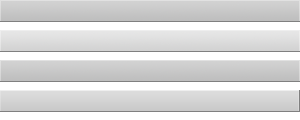
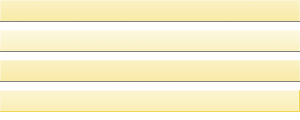
bug 10635 seeding some states for the service pane button - still needs work r=me
git-svn-id: http://publicsvn.songbirdnest.com/client/trunk@10024 5aad4ff5-4b58-4159-ba3f-0e6328df4cad

diff --git a/feathers/gonzo/chrome/skin/colors.css b/feathers/gonzo/chrome/skin/colors.css
@@ -197,19 +197,6 @@ we should nix the painting of the selection.*/
 }
 
 
-/**
- * The spring-loaded service pane panel
- */
-#service_pane_spring_load_panel {
-  background: rgba(255, 0, 255, 0.6);
-  width: 300px;
-  height: 500px;
-}
-#service_pane_spring_load_panel > .service-pane-spring-load-tree {
-  -moz-binding: url(chrome://songbird/content/bindings/servicePane.xml#proxyTreePane);
-}
-
-
 /** 
 *******************************************************************************
 THE PLAYLIST
@@ -333,13 +320,16 @@ treechildren::-moz-tree-cell-text( selected ) {
 }
 treechildren::-moz-tree-row( selected, focus, odd ) {
   background-color: rgb(186,218,255);
+  background-color: rgb(255,244,127);
+  background-color: rgb(252,231,127);
 
   
   
 }
 treechildren::-moz-tree-row( selected, focus, even ) {
   background-color: rgb(181,213,255);
-
+  background-color: rgb(250,239,122);
+  background-color: rgb(247,226,122);
 }
 
 
@@ -614,6 +604,10 @@ tab[selected="true"],
   background-position:center 0px;
 }
 
+.tabbrowser-tab.sb-media-tab {
+  max-width:120px !important;
+}
+
 .tabbrowser-tab.sb-media-tab > .tab-image-middle,
 .tabbrowser-tab.sb-media-tab > .tab-image-left,
 .tabbrowser-tab.sb-media-tab > .tab-image-right,
@@ -625,6 +619,14 @@ tab[selected="true"],
 .tabbrowser-tab[selected="true"] > .tab-close-button {
   background-image: url(chrome://songbird/skin/browser-tab-bar/bg-selected-tab.png) !important;
 }
+.tabbrowser-tab.sb-media-tab[selected="true"] > .tab-image-middle,
+.tabbrowser-tab.sb-media-tab[selected="true"] > .tab-image-left,
+.tabbrowser-tab.sb-media-tab[selected="true"] > .tab-image-right,
+.tabbrowser-tab.sb-media-tab[selected="true"] > .tab-close-button {
+  background-image: url(chrome://songbird/skin/browser-tab-bar/bg-selected-media-tab.png) !important;
+
+}
+
 .tabbrowser-tab:hover > .tab-image-middle,
 .tabbrowser-tab:hover > .tab-close-button {
   background-position:center -30px !important;
@@ -755,14 +757,16 @@ background-position:center 0px;
 
 
 #nav-bar toolbarbutton[disabled="true"] {
-  background-image:none !important;
-  background-color:rgb(151,202,98) !important;
-  background-color:rgb(100,100,100) !important;
+  background-position:center -60px !important;
 }
 #nav-bar toolbarbutton:active > .toolbarbutton-icon,
 #nav-bar toolbarbutton:active > .toolbarbutton-menu-dropmarker,
 #nav-bar toolbarbutton:active > .toolbarbutton-menulist-dropmarker,
-#nav-bar toolbarbutton:active > .toolbarbutton-menubutton-dropmarker {
+#nav-bar toolbarbutton:active > .toolbarbutton-menubutton-dropmarker,
+#nav-bar toolbarbutton[open="true"] > .toolbarbutton-icon,
+#nav-bar toolbarbutton[open="true"] > .toolbarbutton-menu-dropmarker,
+#nav-bar toolbarbutton[open="true"] > .toolbarbutton-menulist-dropmarker,
+#nav-bar toolbarbutton[open="true"] > .toolbarbutton-menubutton-dropmarker {
   opacity:0.5 !important;
 }
 
@@ -868,8 +872,7 @@ radio[focused="true"] {
 
 button[disabled="true"],
 findbar toolbarbutton[disabled="true"] {
-  background-image:none;
-  background-color:rgb(180,180,180);
+  background-position:left -900px !important;
 }
 button[disabled="true"] .button-text {
   color:gray;
@@ -2144,27 +2147,36 @@ prefwindow * {
 /**
  * The spring-loaded service pane panel
  */
-#service_pane_spring_load_panel {
-  background: transparent;
-  width: 180px;
-  height: 500px;
-background-color: rgb(220,220,220) !important;
-padding:0px;
+window:not([platform=Darwin]) #service_pane_spring_load_panel {
+  opacity:1.0;
 }
 #service_pane_spring_load_panel > .service-pane-spring-load-tree {
   -moz-binding: url(chrome://songbird/content/bindings/servicePane.xml#proxyTreePane);
 }
+
+#service_pane_spring_load_panel {
+	padding:0px;
+}
+
 #service_pane_spring_load_panel > .service-pane-spring-load-tree {
+
   background-image: url(chrome://songbird/skin/browser-tab-bar/bg-tab-bar.png);
   background-repeat:repeat-x;
   background-position:center -22px;
-  padding-top:2px;
+  padding-top:2px !important
 }
 #service_pane_spring_load_panel > .service-pane-spring-load-tree > .servicepane-tree {
-  background-image:url('chrome://songbird/skin/service-pane/bg-service-pane.png');
+  background-color: rgb(247,243,223) !important;
+  background-image: url(chrome://songbird/skin/service-pane/bg-spring-service-pane.png) !important;
   background-repeat:repeat-x;
   background-position:center top;
 }
+#service_pane_spring_load_panel > .service-pane-spring-load-tree > .servicepane-tree > treechildren::-moz-tree-cell( servicesource-bookmarks ),
+#service_pane_spring_load_panel > .service-pane-spring-load-tree > .servicepane-tree > treechildren::-moz-tree-cell( servicesource-playlists ),
+#service_pane_spring_load_panel > .service-pane-spring-load-tree > .servicepane-tree > treechildren::-moz-tree-cell( folder ) {
+  background-color: rgb(247,243,223) !important;
+}
+
 
 #service_pane_spring_load_panel > .service-pane-spring-load-tree > .servicepane-tree > treecols {
   min-height:0px !important;
@@ -2175,28 +2187,28 @@ padding:0px;
 #service_pane_spring_load_panel > .service-pane-spring-load-tree > .servicepane-tree > treechildren::-moz-tree-cell-text {
 }
 
-/*
-+        <hbox>
-+          <button class="service-pane-spring-load-button"
-+                  oncommand="gServicePane.open = true; this.parentNode.parentNode.hidePopup();"/>
-+          <label flex="1" value="&servicepane.title.label;"/>
-+          <toolbarbutton class="close-button"
-+                         oncommand="this.parentNode.parentNode.hidePopup();"/>
-+        </hbox>
-*/
-
 #service_pane_spring_load_panel > hbox {
-  background-image: url(chrome://songbird/skin/browser-tab-bar/bg-tab.png) !important;
+  background-image: url(chrome://songbird/skin/browser-tab-bar/bg-spring-service-pane-header.png) !important;
   background-repeat:no-repeat;
   background-position:right 0px;
   -moz-box-align: center;
   -moz-box-pack: center;  
-  
+  min-height:22px;
+  max-height:22px;
 }
 #service_pane_spring_load_panel > hbox > hbox {
-  background-image: url(chrome://songbird/skin/browser-tab-bar/bg-tab.png) !important;
+  background-image: url(chrome://songbird/skin/browser-tab-bar/bg-spring-service-pane-header.png) !important;
   background-repeat:no-repeat;
   background-position:left 0px;
+  -moz-box-align: center;
+  -moz-box-pack: center;  
+  min-height:22px;
+  max-height:22px;
+  padding-bottom:2px;
+}
+#service_pane_spring_load_panel > hbox > hbox > label {
+	margin:0px;
+	padding:2px 0px 0px 4px;
 }
 #service_pane_spring_load_panel > hbox > .service-pane-spring-load-button {
   min-height:22px;
@@ -2209,6 +2221,7 @@ padding:0px;
   padding:0;
 }
 
+
 .service-pane-spring-load-button {
   -moz-border-radius:0px;
   -moz-image-region:auto;
@@ -2219,16 +2232,25 @@ background-color:transparent;
 background-image: url(chrome://songbird/skin/browser-tab-bar/bg-button-tab-delimiter.png) !important;
 background-repeat:no-repeat !important;
 background-position:right 0px !important;
-min-width:22px;
+min-width:23px;
 
 }
 
 .service-pane-spring-load-button > .button-box {
-  background-image: url(chrome://songbird/skin/browser-tab-bar/bg-tab.png) !important;
+  background-image: url(chrome://songbird/skin/browser-tab-bar/bg-service-pane-button.png) !important;
   background-repeat:no-repeat !important;
   background-position:right 0px !important;
   padding:0;
 }
+#tabstrip-container[servicepane_pinned="true"] {
+}
+#tabstrip-container[servicepane_pinned="true"] .service-pane-spring-load-button > .button-box {
+	background-image: url(chrome://songbird/skin/browser-tab-bar/bg-unpin-service-pane-button.png) !important;
+}
+#service_pane_spring_load_panel > hbox > .service-pane-spring-load-button > .button-box {
+	background-image: url(chrome://songbird/skin/browser-tab-bar/bg-pin-service-pane-button.png) !important;
+}
+
 .service-pane-spring-load-button:hover > .button-box {
 background-position:right -30px !important;
 }
@@ -2240,7 +2262,7 @@ background-position:right -30px !important;
   background-position:right -24px !important;
 }
 .service-pane-spring-load-button[disabled="true"] > .button-box {
-  background-image: url(chrome://songbird/skin/browser-tab-bar/bg-selected-tab.png) !important;
+  background-image: url('chrome://songbird/skin/browser-tab-bar/bg-selected-media-tab.png') !important;
   background-position:right 0px !important;
 }
 .service-pane-spring-load-button > .button-box > .button-icon {

diff --git a/feathers/gonzo/chrome/content/css/miniplayer.css b/feathers/gonzo/chrome/content/css/miniplayer.css
@@ -1,7 +1,9 @@
 
+
+
 #miniplayer {
-  min-width:320px !important;
-  width:320px !important;
+  min-width:480px !important;
+  width:480px !important;
   overflow:hidden !important;
   padding:0;
 }
@@ -31,7 +33,7 @@
 #miniplayer .faceplate-text,
 sb-player-timeelapsed-label label,
 sb-player-totaltime-label label {
-  font-size:8px !important;
+  font-size:10px !important;
 }
 
 
@@ -112,16 +114,16 @@ sb-player-totaltime-label label {
 .sb-player-playpause-button-play > button {
   -moz-image-region: rect(0px 30px 22px 0px);
 }
-.sb-player-play-button-play > button:hover,
-.sb-player-playpause-button-play > button:hover {
+.sb-player-play-button-play:hover > button,
+.sb-player-playpause-button-play:hover > button {
   -moz-image-region: rect(22px 30px 44px 0px);
 }
-.sb-player-play-button-play > button:active,
-.sb-player-playpause-button-play > button:active {
+.sb-player-play-button-play:active > button,
+.sb-player-playpause-button-play:active > button {
   -moz-image-region: rect(44px 30px 66px 0px);
 }
-.sb-player-play-button-play > button[disabled="true"],
-.sb-player-playpause-button-play > button[disabled="true"] {
+.sb-player-play-button-play[disabled="true"] > button,
+.sb-player-playpause-button-play[disabled="true"] > button {
   -moz-image-region: rect(66px 30px 88px 0px);
 }
 /*pause*/
@@ -129,16 +131,16 @@ sb-player-totaltime-label label {
 .sb-player-playpause-button-pause > button {  
   -moz-image-region: rect(0px 60px 22px 30px);
 }
-.sb-player-pause-button-pause > button:hover,
-.sb-player-playpause-button-pause > button:hover { 
+.sb-player-pause-button-pause:hover > button,
+.sb-player-playpause-button-pause:hover > button { 
   -moz-image-region: rect(22px 60px 44px 30px);
 }
-.sb-player-pause-button-pause > button:active,
-.sb-player-playpause-button-pause > button:active {
+.sb-player-pause-button-pause:active > button,
+.sb-player-playpause-button-pause:active > button {
   -moz-image-region: rect(44px 60px 66px 30px);
 }
-.sb-player-pause-button-pause > button[disabled="true"],
-.sb-player-playpause-button-pause > button[disabled="true"] { 
+.sb-player-pause-button-pause[disabled="true"] > button,
+.sb-player-playpause-button-pause[disabled="true"] > button { 
   -moz-image-region: rect(66px 60px 88px 30px);
 }
 

diff --git a/feathers/gonzo/chrome/content/bindings/playerControls.css b/feathers/gonzo/chrome/content/bindings/playerControls.css
@@ -99,16 +99,16 @@ Imported by bindings.css or directly into feathers.
   .sb-player-playpause-button-play > button {
     -moz-image-region: rect(0px 40px 40px 0px);
   }
-  .sb-player-play-button-play > button:hover,
-  .sb-player-playpause-button-play > button:hover {
+  .sb-player-play-button-play:hover > button,
+  .sb-player-playpause-button-play:hover > button {
     -moz-image-region: rect(40px 40px 80px 0px);
   }
-  .sb-player-play-button-play > button:active,
-  .sb-player-playpause-button-play > button:active {
+  .sb-player-play-button-play:active > button,
+  .sb-player-playpause-button-play:active > button {
     -moz-image-region: rect(80px 40px 120px 0px);
   }
-  .sb-player-play-button-play > button[disabled="true"],
-  .sb-player-playpause-button-play > button[disabled="true"] {
+  .sb-player-play-button-play[disabled="true"] > button,
+  .sb-player-playpause-button-play[disabled="true"] > button {
     -moz-image-region: rect(120px 40px 160px 0px);
   }
   /*pause*/
@@ -116,16 +116,16 @@ Imported by bindings.css or directly into feathers.
   .sb-player-playpause-button-pause > button {  
     -moz-image-region: rect(0px 80px 40px 40px);
   }
-  .sb-player-pause-button-pause > button:hover,
-  .sb-player-playpause-button-pause > button:hover { 
+  .sb-player-pause-button-pause:hover > button,
+  .sb-player-playpause-button-pause:hover > button { 
     -moz-image-region: rect(40px 80px 80px 40px);
   }
-  .sb-player-pause-button-pause > button:active,
-  .sb-player-playpause-button-pause > button:active {
+  .sb-player-pause-button-pause:active > button,
+  .sb-player-playpause-button-pause:active > button{
     -moz-image-region: rect(80px 80px 120px 40px);
   }
-  .sb-player-pause-button-pause > button[disabled="true"],
-  .sb-player-playpause-button-pause > button[disabled="true"] { 
+  .sb-player-pause-button-pause[disabled="true"] > button,
+  .sb-player-playpause-button-pause[disabled="true"] > button { 
     -moz-image-region: rect(120px 80px 160px 40px);
   }
 

diff --git a/feathers/gonzo/chrome/content/bindings/search.css b/feathers/gonzo/chrome/content/bindings/search.css
@@ -66,8 +66,8 @@ background-color:rgb(220,220,220);
   border: none;
   border-right:1px solid gray;
   -moz-border-radius:0 !important;
-  -moz-border-radius-topleft:3px !important;
-  -moz-border-radius-bottomleft:3px !important;
+  -moz-border-radius-topleft:2px !important;
+  -moz-border-radius-bottomleft:2px !important;
 
   background-image:url('chrome://songbird/skin/base-elements/bg-button.png');
   background-repeat:repeat-x;

diff --git a/feathers/gonzo/chrome/content/bindings/faceplate.css b/feathers/gonzo/chrome/content/bindings/faceplate.css
@@ -231,9 +231,11 @@ sb-player-seek-slider[buffering="true"] > #sb-player-seek-slider
 }
 
 #faceplate_seekbar_box > .notches > hbox+hbox {
+/*
   background-image: url(chrome://songbird/skin/media-control-pane/bg-seekbar-notch.png);
   background-repeat:no-repeat;
   background-position:left center;
+*/
 }
 
 

diff --git a/feathers/gonzo/chrome/content/bindings/syscontrols.css b/feathers/gonzo/chrome/content/bindings/syscontrols.css
@@ -387,3 +387,12 @@ window[platform=Darwin] .sb-sys-outer-frame-resizer {
 }
 
 **/
+
+
+#mac_resize_image_box {
+  background-color:red;
+}
+#sb-sys-titlebar-osx-title-title-shadow label {
+  color:rgb(235,235,235) !important;
+  padding-top:1px !important;
+}

diff --git a/feathers/gonzo/chrome/content/bindings/displayPane.css b/feathers/gonzo/chrome/content/bindings/displayPane.css
@@ -129,6 +129,7 @@ menuitem.displaypane-menuitem[recommended] {
   border:1px solid gray;
   border-top:none;
   border-left:none;
+  border-right:none;
 }
 #displaypane_servicepane_bottom {
   border-bottom:1px solid gray;
